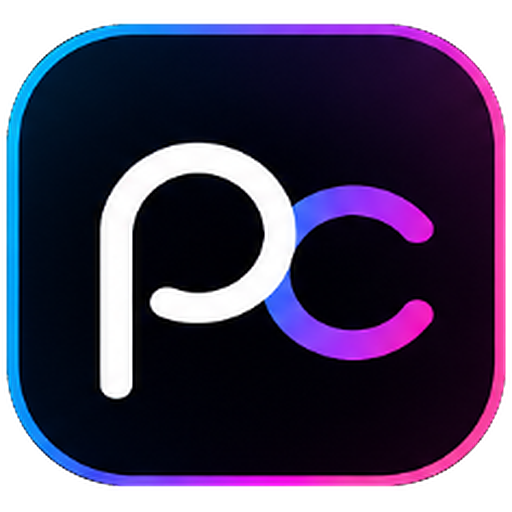
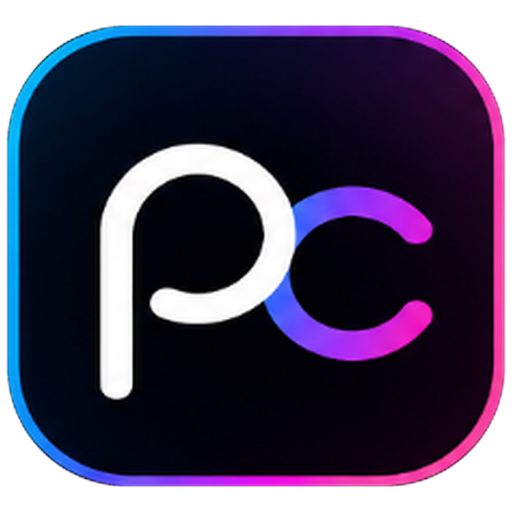
Monograma em alta resolução nos ícones

diff --git a/index.html b/index.html
@@ -25,8 +25,8 @@
 <meta name="apple-mobile-web-app-status-bar-style" content="black-translucent">
 <link rel="preconnect" href="https://fonts.googleapis.com">
 <link rel="stylesheet" href="https://fonts.googleapis.com/css2?family=Montserrat:wght@400;500;600;700;800;900&display=swap">
-<link rel="stylesheet" href="estilo.css?v=202611141709">
-<link rel="stylesheet" href="logo.css?v=202611141709">
+<link rel="stylesheet" href="estilo.css?v=202611141711">
+<link rel="stylesheet" href="logo.css?v=202611141711">
 </head>
 <body>
 <header class="top" id="top" hidden><div class="in">
@@ -37,20 +37,20 @@
 <div class="toast" id="toast" hidden></div>
 <div class="modal" id="modal" hidden></div>
 
-<script>window.VERSAO = "202611141709";</script>
-<script src="config.js?v=202611141709"></script>
+<script>window.VERSAO = "202611141711";</script>
+<script src="config.js?v=202611141711"></script>
 <script src="https://cdn.jsdelivr.net/npm/@supabase/supabase-js@2.45.4/dist/umd/supabase.js"></script>
 <script>if (!(window.CONFIG && CONFIG.supabaseUrl)) document.write('<script src="demo-catalogo.js"><\/script>'); // lista de exemplo: só no modo demonstração</script>
-<script src="base.js?v=202611141709"></script>
-<script src="api-demo.js?v=202611141709"></script>
-<script src="api-supabase.js?v=202611141709"></script>
-<script src="tela-loja.js?v=202611141709"></script>
-<script src="tela-fabrica.js?v=202611141709"></script>
-<script src="tela-conversas.js?v=202611141709"></script>
-<script src="tela-logistica.js?v=202611141709"></script>
-<script src="tela-admin.js?v=202611141709"></script>
-<script src="admin-aparelhos.js?v=202611141709"></script>
-<script src="sos.js?v=202611141709"></script>
-<script src="inicio.js?v=202611141709"></script>
+<script src="base.js?v=202611141711"></script>
+<script src="api-demo.js?v=202611141711"></script>
+<script src="api-supabase.js?v=202611141711"></script>
+<script src="tela-loja.js?v=202611141711"></script>
+<script src="tela-fabrica.js?v=202611141711"></script>
+<script src="tela-conversas.js?v=202611141711"></script>
+<script src="tela-logistica.js?v=202611141711"></script>
+<script src="tela-admin.js?v=202611141711"></script>
+<script src="admin-aparelhos.js?v=202611141711"></script>
+<script src="sos.js?v=202611141711"></script>
+<script src="inicio.js?v=202611141711"></script>
 </body>
 </html>

diff --git a/sw.js b/sw.js
@@ -3,7 +3,7 @@
    - Imagens das estampas e dos aparelhos: usa a cópia guardada (abre rápido e gasta menos dados).
    - Banco de dados (Supabase) e versao.json: nunca guarda, sempre vai na internet.
    - Avisos (push) de pedido novo: mostra a notificação e abre o app ao tocar. */
-const PAGINAS = "clube-paginas-v1", IMAGENS = "clube-imagens-v2", EXTERNOS = "clube-externos-v1";
+const PAGINAS = "clube-paginas-v1", IMAGENS = "clube-imagens-v3", EXTERNOS = "clube-externos-v1";
 
 self.addEventListener("install", () => self.skipWaiting());
 self.addEventListener("activate", e => e.waitUntil((async () => {
